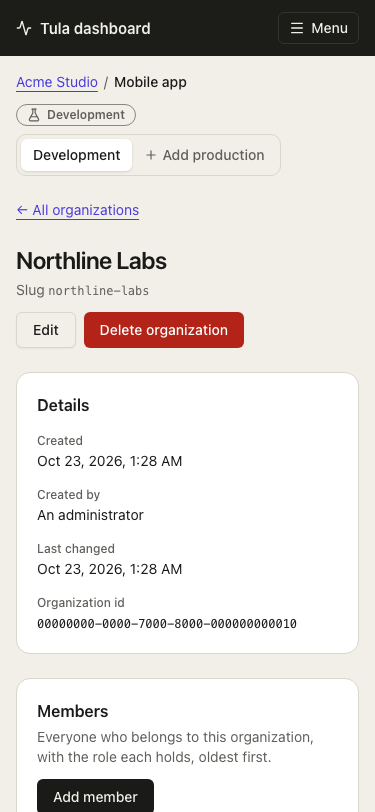
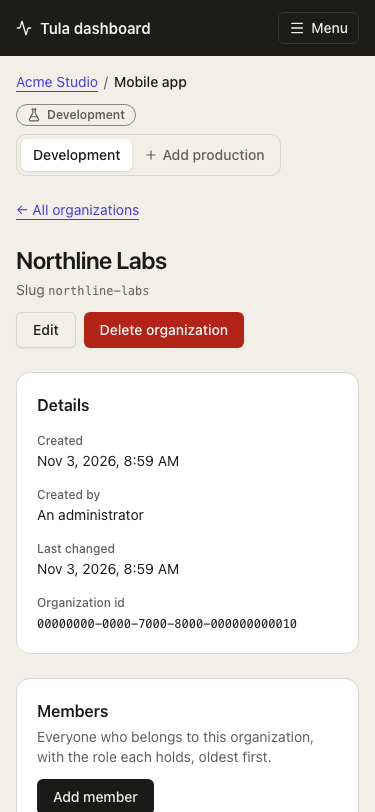
test(dashboard): SSO browser tests with axe, screenshots, SAML form coverage (TULA-146)
Claude-Session: https://claude.ai/code/session_01GVLsRtE52qs8qZGbcUxg3N

Changed region(s): [[0.088, 0.6773, 0.4987, 0.7081], [0.088, 0.5542, 0.4987, 0.585]]

diff --git a/e2e/tests/dashboard/sso.spec.ts b/e2e/tests/dashboard/sso.spec.ts
@@ -1,0 +1,127 @@
+import type { Page } from '@playwright/test'
+import { API_URL, bindSsoDomain, restoreSettings } from '../support'
+import {
+  dialog,
+  ENVIRONMENT_ID,
+  ENVIRONMENT_PATH,
+  expect,
+  expectScreenAccessible,
+  open,
+  signIn,
+  test,
+} from './support'
+
+// The SSO section of an organization's page (TULA-146), against the real API under its real
+// Content-Security-Policy. `bindSsoDomain` makes an organization with an active OIDC
+// connection on the API's own mock identity provider; the test puts the environment back.
+
+const DASHBOARD = {
+  'x-tula-dashboard': '1',
+  'x-tula-environment': ENVIRONMENT_ID,
+  origin: API_URL,
+}
+const DOMAIN = 'dashboard-sso.example.test'
+
+interface Row {
+  id: string
+  slug?: string
+}
+
+async function read<T>(page: Page, path: string): Promise<T> {
+  const response = await page.request.get(`${API_URL}${path}`, { headers: DASHBOARD })
+  expect(response.ok(), path).toBe(true)
+  return (await response.json()) as T
+}
+
+/** Every organization and the connections on it go, in the order the rules allow. */
+async function clear(page: Page): Promise<void> {
+  const organizations = await read<{ data: Row[] }>(page, '/v1/admin/organizations?size=100')
+  for (const organization of organizations.data) {
+    const listed = await read<{ connections: Row[] }>(
+      page,
+      `/v1/admin/sso-connections?organizationId=${organization.id}`
+    )
+    for (const connection of listed.connections) {
+      await page.request.delete(`${API_URL}/v1/admin/sso-connections/${connection.id}`, {
+        headers: DASHBOARD,
+      })
+    }
+    await page.request.delete(`${API_URL}/v1/admin/organizations/${organization.id}`, {
+      headers: DASHBOARD,
+    })
+  }
+}
+
+async function organizationId(page: Page): Promise<string> {
+  const organizations = await read<{ data: Row[] }>(page, '/v1/admin/organizations?size=100')
+  const found = organizations.data.find((entry) => entry.slug === 'sso-dashboard-sso')
+  expect(found).toBeDefined()
+  return (found as Row).id
+}
+
+test.beforeEach(async ({ page }) => {
+  await signIn(page)
+  await restoreSettings(page.request)
+  await bindSsoDomain(page.request, DOMAIN)
+})
+
+test.afterEach(async ({ page }) => {
+  try {
+    await signIn(page)
+    await clear(page)
+  } finally {
+    await restoreSettings(page.request)
+  }
+})
+
+test('the connection is listed with its protocol, status and domain, and its secret is never shown', async ({
+  page,
+}) => {
+  await open(page, `${ENVIRONMENT_PATH}/organizations/${await organizationId(page)}`, 'SSO Org')
+  const card = page.getByRole('listitem', { name: 'Connection Mock IdP' })
+  await expect(card).toBeVisible()
+  await expect(card.getByText('OIDC')).toBeVisible()
+  await expect(card.getByText('Active')).toBeVisible()
+  await expect(card.getByText(DOMAIN)).toBeVisible()
+  await expect(card.getByText('Saved, never shown again')).toBeVisible()
+  expect(await page.content()).not.toContain('e2e-sso-secret')
+  await expectScreenAccessible(page, 'organization with an SSO connection')
+})
+
+test('trusting the identity provider asks first, and the question is accessible', async ({
+  page,
+}) => {
+  await open(page, `${ENVIRONMENT_PATH}/organizations/${await organizationId(page)}`, 'SSO Org')
+  await page.getByRole('button', { name: 'Edit Mock IdP' }).click()
+  const form = dialog(page)
+  await expectScreenAccessible(page, 'connection form')
+  await form
+    .getByRole('switch', { name: 'Trust the identity provider for two-step verification' })
+    .click()
+  await form.getByRole('button', { name: 'Save changes' }).click()
+  await expect(form.getByTestId('weakening')).toContainText('second step')
+  await expectScreenAccessible(page, 'connection weakening question')
+  await form.getByRole('button', { name: 'Save changes' }).click()
+  await expect(page.getByRole('dialog')).toHaveCount(0)
+  const listed = await read<{ connections: { trustIdpMfa: boolean }[] }>(
+    page,
+    `/v1/admin/sso-connections?organizationId=${await organizationId(page)}`
+  )
+  expect(listed.connections[0]?.trustIdpMfa).toBe(true)
+})
+
+test('disabling a connection asks, and the section then says it is disabled', async ({ page }) => {
+  await open(page, `${ENVIRONMENT_PATH}/organizations/${await organizationId(page)}`, 'SSO Org')
+  await page.getByRole('button', { name: 'Disable Mock IdP' }).click()
+  await expectScreenAccessible(page, 'disable connection')
+  await page.getByRole('dialog').getByRole('button', { name: 'Disable' }).click()
+  await expect(
+    page.getByRole('listitem', { name: 'Connection Mock IdP' }).getByText('Disabled')
+  ).toBeVisible()
+})
+
+test('the settings screen has the single sign-on switch, on', async ({ page }) => {
+  await open(page, `${ENVIRONMENT_PATH}/organization-settings`, 'Organization settings')
+  await expect(page.getByRole('switch', { name: 'Single sign-on is on' })).toBeChecked()
+  await expectScreenAccessible(page, 'organization settings with single sign-on')
+})

diff --git a/apps/dashboard/src/sso.test.tsx b/apps/dashboard/src/sso.test.tsx
@@ -133,6 +133,62 @@ describe('the SSO section', () => {
     expect(download.getAttribute('download')).toBe('tula-sp-metadata.xml')
   })
 
+  test('an empty form says what is missing and sends nothing', async () => {
+    const api = arranged()
+    const { user } = start(api)
+    await user.click(await screen.findByRole('button', { name: 'New connection' }))
+    await user.click(within(dialog()).getByRole('button', { name: 'Create connection' }))
+    expect(await within(dialog()).findByText(/Enter a name for the connection/)).toBeTruthy()
+    expect(within(dialog()).getByText('Enter the provider’s issuer address.')).toBeTruthy()
+    expect(within(dialog()).getByText('Enter the client id.')).toBeTruthy()
+    expect(within(dialog()).getByText('Enter the client secret.')).toBeTruthy()
+    expect(sent(api, 'POST')).toHaveLength(0)
+  })
+
+  test('creates a SAML connection from values typed by hand, with a next certificate', async () => {
+    const api = arranged()
+    const { user } = start(api)
+    await user.click(await screen.findByRole('button', { name: 'New connection' }))
+    await user.type(within(dialog()).getByLabelText('Name'), 'Entra')
+    await user.selectOptions(within(dialog()).getByLabelText('Protocol'), 'saml')
+    await user.selectOptions(within(dialog()).getByLabelText('Identity provider values'), 'manual')
+    await user.type(
+      within(dialog()).getByLabelText('Identity provider entity id'),
+      'https://idp.example.com/entity'
+    )
+    await user.type(within(dialog()).getByLabelText('Sign-in URL'), 'https://idp.example.com/sso')
+    await user.type(within(dialog()).getByLabelText('Signing certificate'), 'CERT-ONE')
+    await user.type(
+      within(dialog()).getByLabelText('Next signing certificate (optional)'),
+      'CERT-TWO'
+    )
+    await user.click(within(dialog()).getByRole('button', { name: 'Create connection' }))
+    await waitFor(() => expect(openDialogs()).toBe(0))
+    expect(sent(api, 'POST')[0]?.body).toMatchObject({
+      saml: {
+        idpEntityId: 'https://idp.example.com/entity',
+        ssoUrl: 'https://idp.example.com/sso',
+        certificates: ['CERT-ONE', 'CERT-TWO'],
+      },
+    })
+  })
+
+  test('creates a SAML connection from pasted metadata', async () => {
+    const api = arranged()
+    const { user } = start(api)
+    await user.click(await screen.findByRole('button', { name: 'New connection' }))
+    await user.type(within(dialog()).getByLabelText('Name'), 'Entra')
+    await user.selectOptions(within(dialog()).getByLabelText('Protocol'), 'saml')
+    await user.selectOptions(within(dialog()).getByLabelText('Identity provider values'), 'xml')
+    await user.click(within(dialog()).getByLabelText('Metadata XML'))
+    await user.paste('<EntityDescriptor/>')
+    await user.click(within(dialog()).getByRole('button', { name: 'Create connection' }))
+    await waitFor(() => expect(openDialogs()).toBe(0))
+    expect(sent(api, 'POST')[0]?.body).toMatchObject({
+      saml: { metadataXml: '<EntityDescriptor/>' },
+    })
+  })
+
   test('says what a refused create means', async () => {
     const { user } = start(arranged({ connections: [{ name: 'Okta' }] }))
     await user.click(await screen.findByRole('button', { name: 'New connection' }))

diff --git a/e2e/tests/dashboard/screenshots.spec.ts b/e2e/tests/dashboard/screenshots.spec.ts
@@ -1,6 +1,6 @@
 import { join } from 'node:path'
 import type { Page } from '@playwright/test'
-import { API_URL, useSettings } from '../support'
+import { API_URL, bindSsoDomain, useSettings } from '../support'
 import {
   ENVIRONMENT_ID,
   ENVIRONMENT_PATH,
@@ -190,6 +190,35 @@ test('the dashboard’s screens, in light, dark and at a phone’s width', async
   await shot(page, 'organization-settings')
   await send('DELETE', `/v1/admin/organizations/${organizationId}`)
   await send('DELETE', '/v1/admin/organization-roles/billing', undefined, { 'if-match': '"1"' })
+  await useSettings(page.request)
+
+  // Single sign-on: the fixture's organization with its active connection, taken away again.
+  await bindSsoDomain(page.request, 'northline.example')
+  const listed = await page.request.get(`${API_URL}/v1/admin/organizations?size=100`, {
+    headers: dashboard,
+  })
+  const ssoOrganization = (
+    (await listed.json()) as { data: { id: string; slug: string }[] }
+  ).data.find((entry) => entry.slug === 'sso-northline')
+  expect(ssoOrganization).toBeDefined()
+  const ssoId = ssoOrganization?.id as string
+  await open(page, `${ENVIRONMENT_PATH}/organizations/${ssoId}`, 'SSO Org')
+  await expect(page.getByRole('listitem', { name: 'Connection Mock IdP' })).toBeVisible()
+  // The section is under the members and invitations: bring it into the picture.
+  const card = page.getByRole('listitem', { name: 'Connection Mock IdP' })
+  await card.scrollIntoViewIfNeeded()
+  await shot(page, 'organization-sso')
+  await card.scrollIntoViewIfNeeded()
+  await shot(page, 'organization-sso-dark', 'dark')
+  const connections = await page.request.get(
+    `${API_URL}/v1/admin/sso-connections?organizationId=${ssoId}`,
+    { headers: dashboard }
+  )
+  for (const connection of ((await connections.json()) as { connections: { id: string }[] })
+    .connections) {
+    await send('DELETE', `/v1/admin/sso-connections/${connection.id}`)
+  }
+  await send('DELETE', `/v1/admin/organizations/${ssoId}`)
   await useSettings(page.request)
 
   await open(page, 'instance/diagnostics', 'Diagnostics')

diff --git a/.claude/rules/dashboard.md b/.claude/rules/dashboard.md
@@ -165,6 +165,19 @@ this file under "Area rules" and does not repeat it. A section named in a senten
   deletion refused with `user.last_organization_manager` names each organization with a link.
   The fake (`src/testing/fake-organizations.ts`) is held to the contract and the service's
   refusals by `fake-organizations.test.ts`.
+- **The SSO section** (`features/sso`, TULA-146) is part of the organization screen, over
+  `/v1/admin/sso-connections`; every route answers `sso.disabled` while the environment has
+  single sign-on off, and the section says so with a link to Organization settings. **The
+  client secret is write-only**: `clientSecretSet` is all the API returns, the field is
+  empty on edit, cleared when the dialog closes, and sent only when typed. **What is asked
+  about first mirrors the server's `weakens()`** (`modules/sso-connection/service.ts`) as
+  `weakeningSentences` in `words.ts`, because the contract has no list of them: activation,
+  any content change to an active connection, enforcement going off, trusting the identity
+  provider for two-step verification, and a new break-glass role (said as "keeps password
+  sign-in", never more). A change to `weakens()` changes that function and its table in
+  `words.test.ts`. A certificate ending within 30 days is a warning and an ended one an
+  alert (`certificateStanding`). The fake (`src/testing/fake-sso.ts`) is held to the
+  contract by `fake-sso.test.ts`.
 - **The proposals screen** (`features/proposals`, [ADR 0053](../../docs/adr/0053-proposals.md),
   "The dashboard's Proposals screen") lists what an agent asked for and approves with the
   dashboard's session. **It approves what it showed**: the request's operation and target
